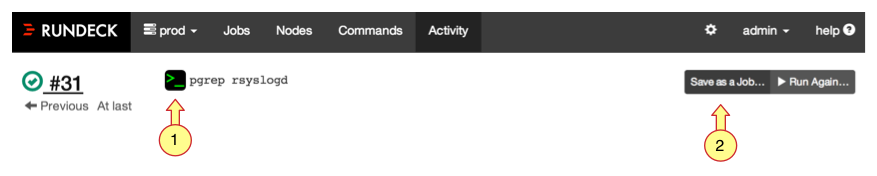
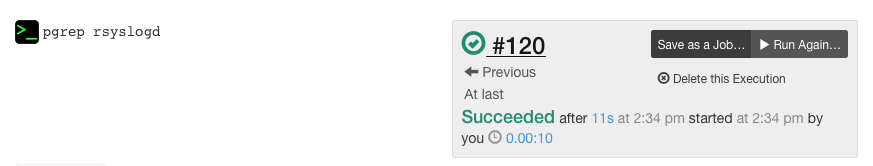
update Execution follow page screenshots

diff --git a/en/manual/07-executions.md b/en/manual/07-executions.md
@@ -43,8 +43,7 @@ to the appearance in the web pages.
 
 ### Job execution view
 
-1. Job executions show the name of a job and group and display an icon that looks like a book.
-2. Job executions also provide a button to edit the job definition.
+Job executions show the Job name and group and display an icon that looks like a book. An Action menu provides actions to modify the job.
 
 ![Job execution](../figures/fig0805.png)
 
